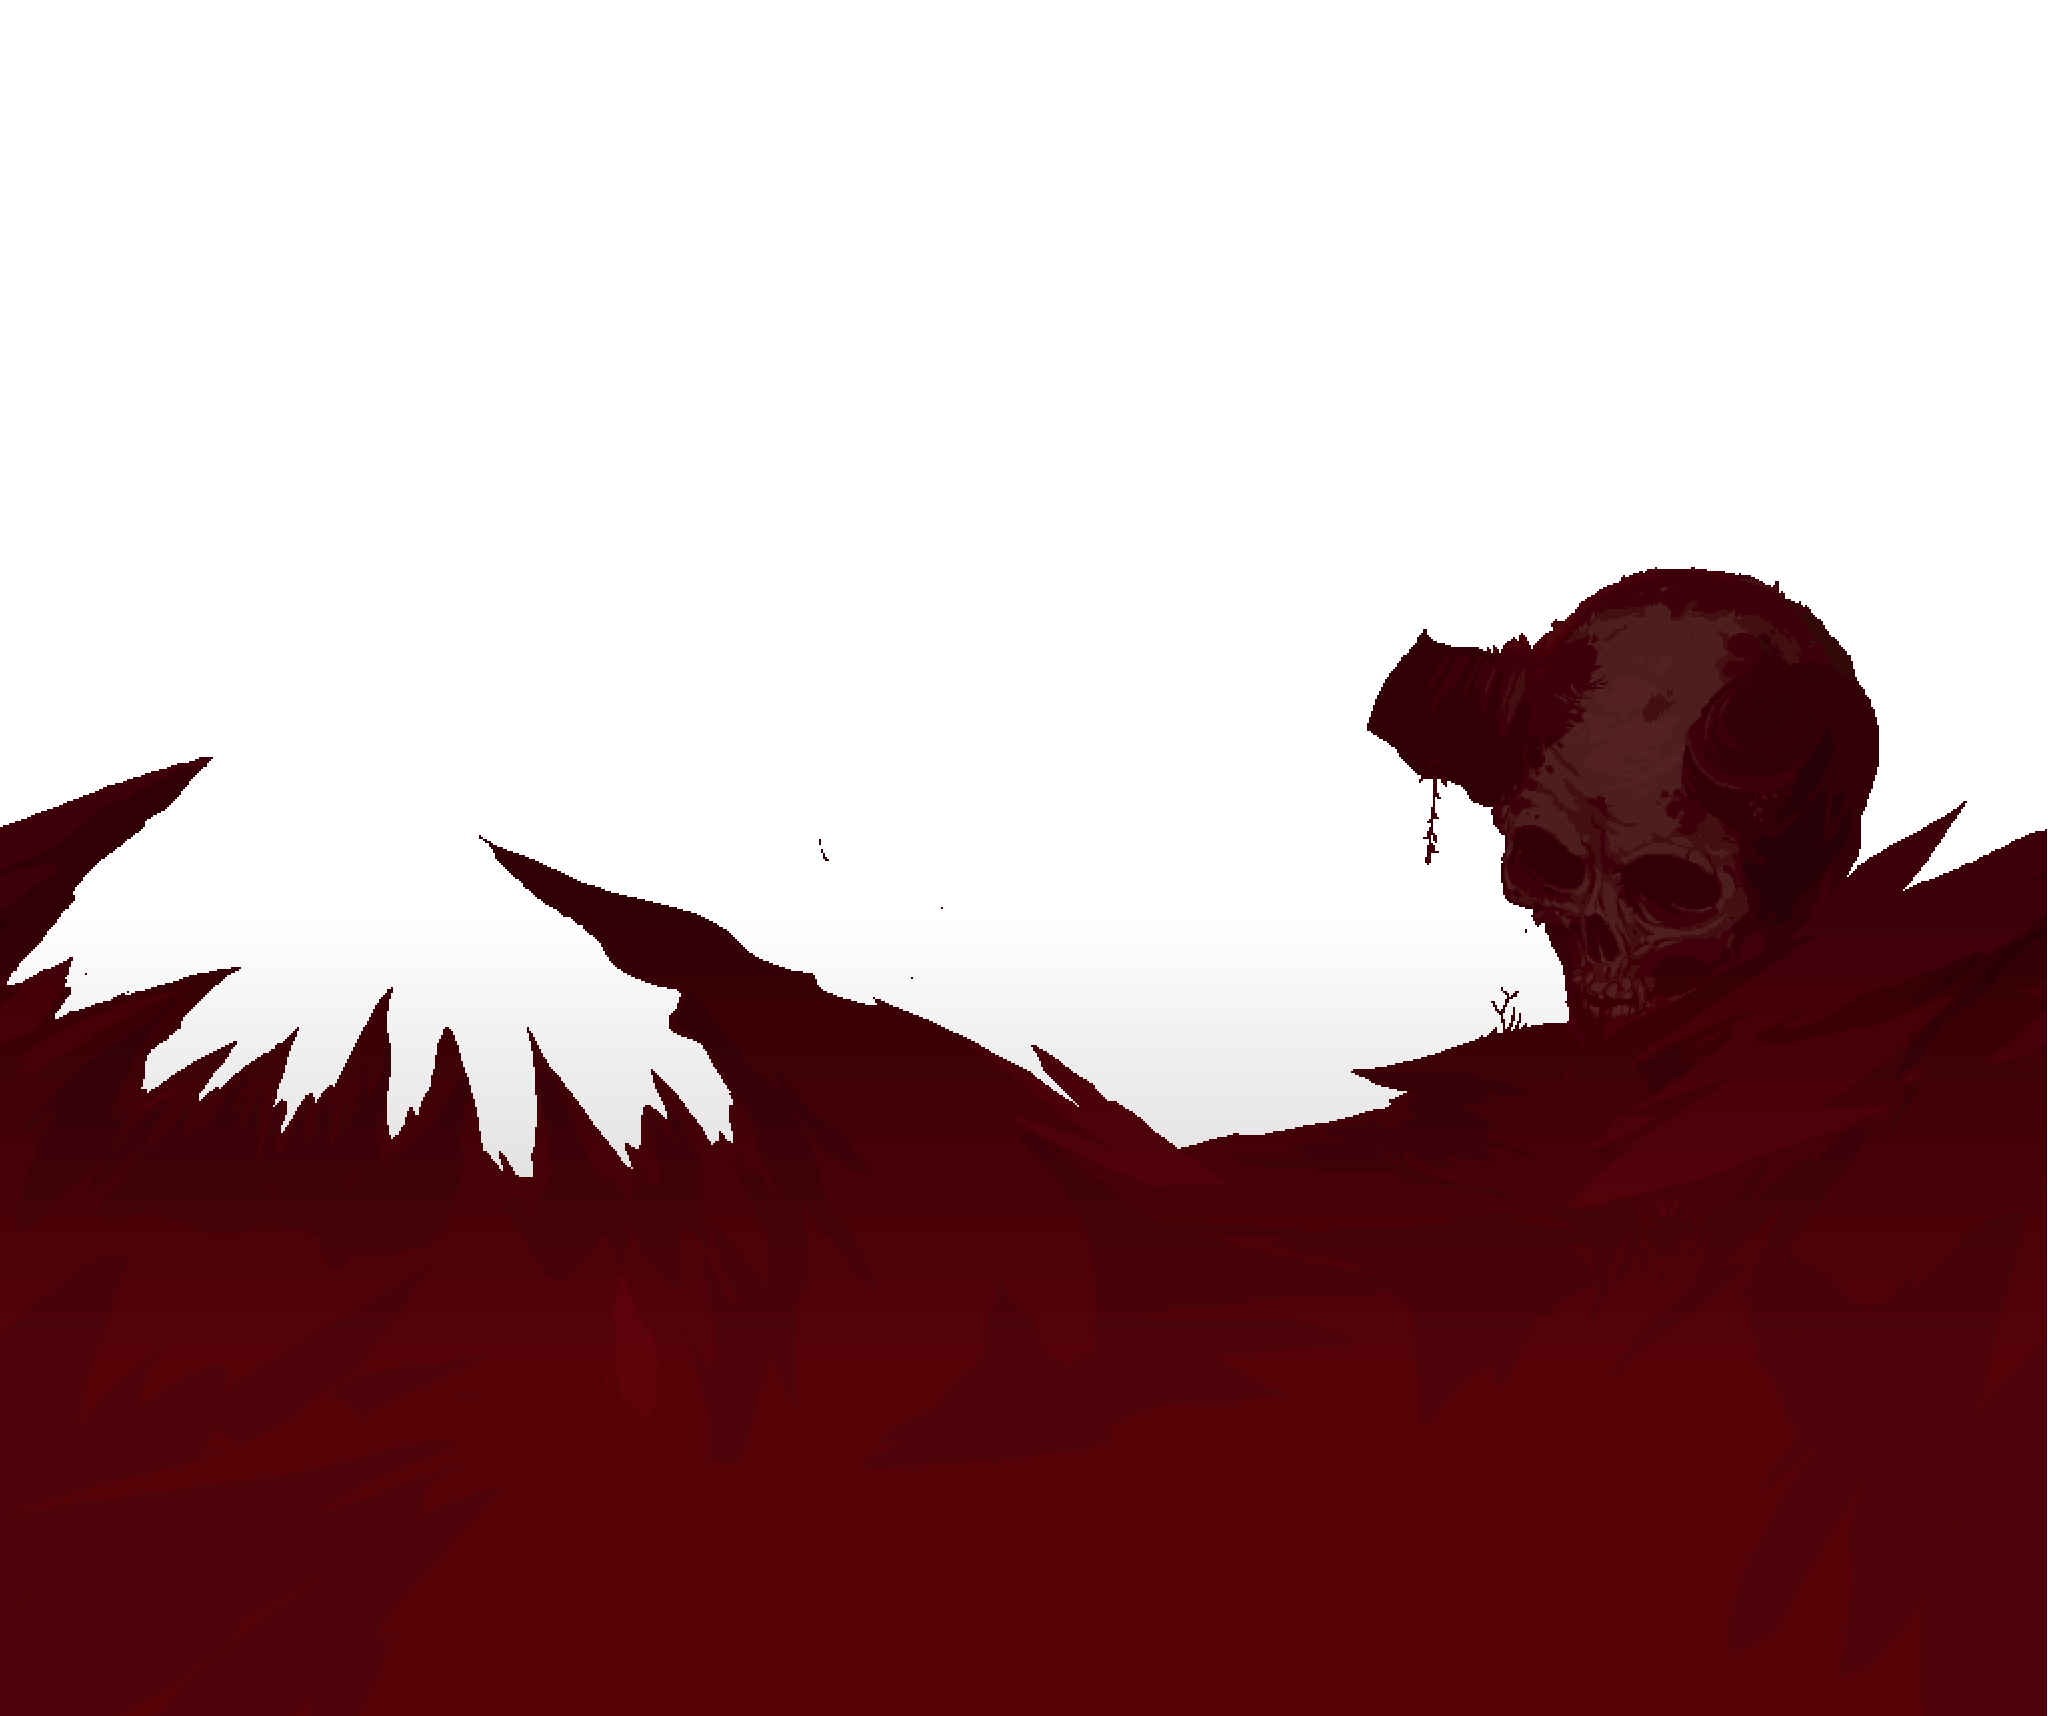
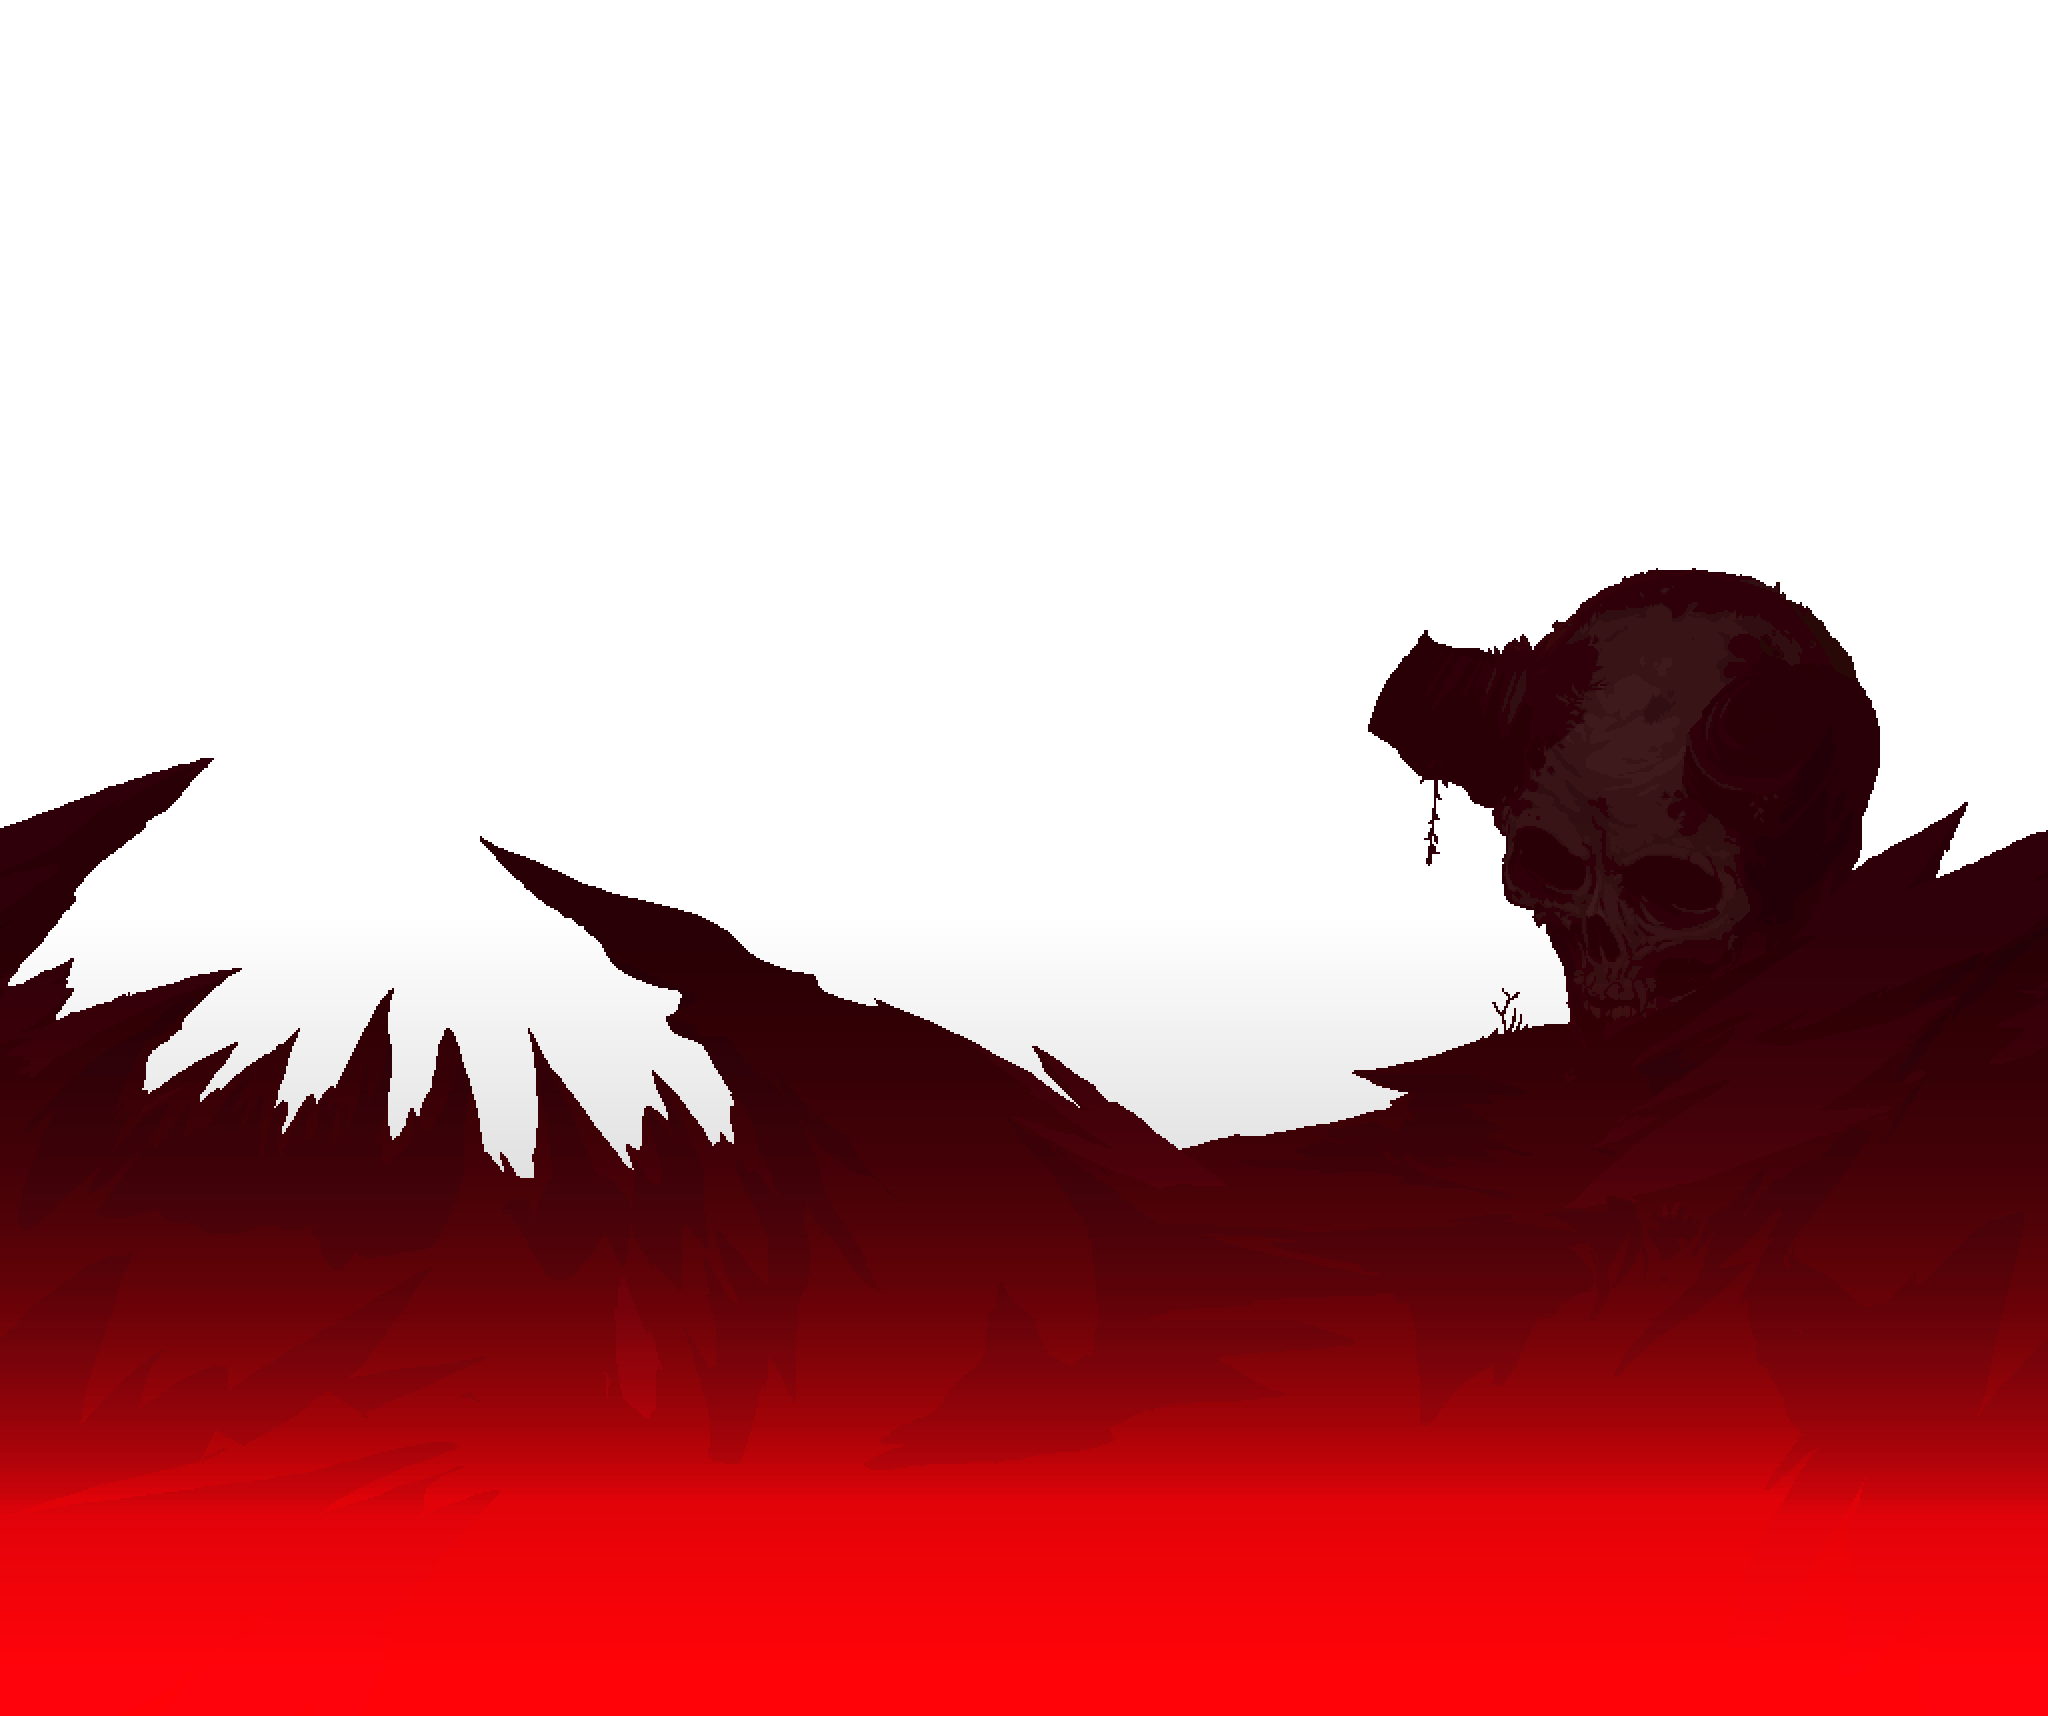
Feat/fix: Crimson background sprite, layout, lighting pass + Cartilage ore inflicts ichor for longer

Changed region(s): [[0.0, 0.7413, 1.0, 1.0], [0.9375, 0.4633, 0.9688, 0.5251]]

diff --git a/src/EvilExpansionMod/Common/World/HellLightRemovalSystem.cs b/src/EvilExpansionMod/Common/World/HellLightRemovalSystem.cs
@@ -17,33 +17,67 @@ internal sealed class HellLightRemovalSystem : ModSystem {
     private void TileLightScanner_ApplyHellLight(On_TileLightScanner.orig_ApplyHellLight orig, TileLightScanner self, Tile tile, int x, int y, ref Vector3 lightColor) {
         orig.Invoke(self, tile, x, y, ref lightColor);
 
-        var underworldCorruptLightColor = new Vector3(0.4f, 0.45f, 0.08f);
-        var underworldCrimsonLightColor = new Vector3(0.45f, 0.25f, 0.0f);
+        var underworldCorruptLightColor = new Vector3(0.6f, 0.65f, 0.08f);
+        var underworldCrimsonLightColor = new Vector3(0.65f, 0.45f, 0.2f); //new Vector3(0.45f, 0.25f, 0.0f) previously
 
         if(Main.LocalPlayer.InModBiome<UnderworldCorruptionBiome>()) {
-            if((!tile.HasTile || !Main.tileNoSunLight[tile.TileType] || ((tile.Slope != 0 || tile.IsHalfBlock) && Main.tile[x, y - 1].LiquidAmount == 0 && Main.tile[x, y + 1].LiquidAmount == 0 && Main.tile[x - 1, y].LiquidAmount == 0 && Main.tile[x + 1, y].LiquidAmount == 0)) && (Main.wallLight[tile.WallType] || tile.WallType == 73 || tile.WallType == 227) && tile.LiquidAmount < 200 && (!tile.IsHalfBlock || Main.tile[x, y - 1].LiquidAmount < 200)) {
-                lightColor = underworldCorruptLightColor;
+            if((!tile.HasTile || !Main.tileNoSunLight[tile.TileType] || // "There is no tile" OR "tile allows sunlight", OR
+                ((tile.Slope != 0 || tile.IsHalfBlock) &&
+                    Main.tile[x, y - 1].LiquidAmount == 0 &&
+                    Main.tile[x, y + 1].LiquidAmount == 0 &&
+                    Main.tile[x - 1, y].LiquidAmount == 0 &&
+                    Main.tile[x + 1, y].LiquidAmount == 0)) && // Tile is not surrounded by liquids, AND
+                (Main.wallLight[tile.WallType] || tile.WallType == 73 || tile.WallType == 227) && // Wall on the tile is transparent, AND
+                tile.LiquidAmount < 200 && // Liquid in the tile is below a threshold, AND
+                (!tile.IsHalfBlock || Main.tile[x, y - 1].LiquidAmount < 200)) { // "Tile is solid" OR "the liquid in tile below is below a threshold"
+                    lightColor = underworldCorruptLightColor * 1f;
             }
-            if((!tile.HasTile || tile.IsHalfBlock || !Main.tileNoSunLight[tile.TileType]) && tile.LiquidAmount < byte.MaxValue) {
-                lightColor = underworldCorruptLightColor/1.5f;
+            if((!tile.HasTile || tile.IsHalfBlock || !Main.tileNoSunLight[tile.TileType]) && tile.LiquidAmount < byte.MaxValue) { // If the tile is a half block OR allows sunlight
+                lightColor = underworldCorruptLightColor * 0.5f;
             }
-
-            if(!tile.HasTile) {
-                lightColor = underworldCorruptLightColor/1.5f;
+            if(!tile.HasTile) { // If the tile... has no tile... I suppose this is "ambient light"?
+                lightColor = underworldCorruptLightColor * 0.5f;
+            }
+            if(!Main.wallLight[tile.WallType] || tile.WallType == 73 || tile.WallType == 227) { // Make it dark as fuck if there is a non-transparent wall
+                lightColor = underworldCrimsonLightColor * 0f;
             }
         }
 
         if(Main.LocalPlayer.InModBiome<UnderworldCrimsonBiome>()) {
-            if((!tile.HasTile || !Main.tileNoSunLight[tile.TileType] || ((tile.Slope != 0 || tile.IsHalfBlock) && Main.tile[x, y - 1].LiquidAmount == 0 && Main.tile[x, y + 1].LiquidAmount == 0 && Main.tile[x - 1, y].LiquidAmount == 0 && Main.tile[x + 1, y].LiquidAmount == 0)) && (Main.wallLight[tile.WallType] || tile.WallType == 73 || tile.WallType == 227) && tile.LiquidAmount < 200 && (!tile.IsHalfBlock || Main.tile[x, y - 1].LiquidAmount < 200)) {
-                lightColor = underworldCrimsonLightColor;
+            if((!tile.HasTile || !Main.tileNoSunLight[tile.TileType] || // "There is no tile" OR "tile allows sunlight", OR
+                ((tile.Slope != 0 || tile.IsHalfBlock) &&
+                    Main.tile[x, y - 1].LiquidAmount == 0 &&
+                    Main.tile[x, y + 1].LiquidAmount == 0 &&
+                    Main.tile[x - 1, y].LiquidAmount == 0 &&
+                    Main.tile[x + 1, y].LiquidAmount == 0)) && // Tile is not surrounded by liquids, AND
+                (Main.wallLight[tile.WallType] || tile.WallType == 73 || tile.WallType == 227) && // Wall on the tile is transparent, AND
+                tile.LiquidAmount < 200 && // Liquid in the tile is below a threshold, AND
+                (!tile.IsHalfBlock || Main.tile[x, y - 1].LiquidAmount < 200)) { // "Tile is solid" OR "the liquid in tile below is below a threshold"
+                lightColor = underworldCrimsonLightColor * 1f;
             }
             if((!tile.HasTile || tile.IsHalfBlock || !Main.tileNoSunLight[tile.TileType]) && tile.LiquidAmount < byte.MaxValue) {
-                lightColor = underworldCrimsonLightColor/2;
+                lightColor = underworldCrimsonLightColor * 0.5f;
+            }
+            if(!tile.HasTile) {
+                lightColor = underworldCrimsonLightColor * 0.5f;
+            }
+            if(!Main.wallLight[tile.WallType] || tile.WallType == 73 || tile.WallType == 227) { // Make it dark as fuck if there is a non-transparent wall
+                lightColor = underworldCrimsonLightColor * 0f;
             }
 
-            if(!tile.HasTile) {
-                lightColor = underworldCrimsonLightColor/2;
-            }
         }
+
+        //if(Main.LocalPlayer.InModBiome<UnderworldCrimsonBiome>()) {
+        //    if((!tile.HasTile || !Main.tileNoSunLight[tile.TileType] || ((tile.Slope != 0 || tile.IsHalfBlock) && Main.tile[x, y - 1].LiquidAmount == 0 && Main.tile[x, y + 1].LiquidAmount == 0 && Main.tile[x - 1, y].LiquidAmount == 0 && Main.tile[x + 1, y].LiquidAmount == 0)) && (Main.wallLight[tile.WallType] || tile.WallType == 73 || tile.WallType == 227) && tile.LiquidAmount < 200 && (!tile.IsHalfBlock || Main.tile[x, y - 1].LiquidAmount < 200)) {
+        //        lightColor = underworldCrimsonLightColor;
+        //    }
+        //    if((!tile.HasTile || tile.IsHalfBlock || !Main.tileNoSunLight[tile.TileType]) && tile.LiquidAmount < byte.MaxValue) {
+        //        lightColor = underworldCrimsonLightColor / 2;
+        //    }
+
+        //    if(!tile.HasTile) {
+        //        lightColor = underworldCrimsonLightColor / 2;
+        //    }
+        //}
     }
 }

diff --git a/src/EvilExpansionMod/Common/World/_Backgrounds/UnderworldCrimsonBGSystem.cs b/src/EvilExpansionMod/Common/World/_Backgrounds/UnderworldCrimsonBGSystem.cs
@@ -99,7 +99,7 @@ public class UnderworldCrimsonBGSystem : ModSystem {
 
             DrawCrimsonUnderworldLayer(flat, screenOffset, pushUp, 0);
 
-            for(int layerTextureIndex = 5; layerTextureIndex >= 0; layerTextureIndex--) {
+            for(int layerTextureIndex = 6; layerTextureIndex >= 0; layerTextureIndex--) {
                 int customTextureIndex;
                 switch(layerTextureIndex) {
                     case 5:
@@ -109,11 +109,13 @@ public class UnderworldCrimsonBGSystem : ModSystem {
                         customTextureIndex = 2;
                         break;
                     case 3:
-                    case 2:
                         customTextureIndex = 3;
                         break;
-                    case 1:
+                    case 2:
                         customTextureIndex = 4;
+                        break;
+                    case 1:
+                        customTextureIndex = 5;
                         break;
                     default:
                         continue;
@@ -158,7 +160,7 @@ public class UnderworldCrimsonBGSystem : ModSystem {
                     num7 = 6f;
                     break;
                 case 4:
-                    num7 = 4f;
+                    num7 = 4.75f;
                     break;
                 case 5:
                     num7 = 2f;
@@ -182,25 +184,33 @@ public class UnderworldCrimsonBGSystem : ModSystem {
 
         switch(textureArrayIndex) {
             case 0:
-                zero.Y -= 0f;
-                num8 = 1.3f;
+                zero.Y += -200f;
+                //zero.Y += -400f;
+                num8 = 1f;
+                //num8 = 1f;
                 break;
             case 1:
-                zero.Y += 10f;
+                zero.Y += -100f;
                 break;
             case 2:
-                zero.Y += 100;
+                zero.Y += 175f;
                 zero.Y -= heightChange * 0.5f;
                 num8 = newScaleFactorForLayer2;
                 break;
             case 3:
-                zero.Y -= 170f;
+                zero.Y += 60f;
+                //zero.Y += -170f;
                 break;
             case 4:
-                zero.Y -= 30f;
+                zero.Y += 120f;
+                //zero.Y += -150f;
                 break;
             case 5:
-                zero.Y += 700f;
+                zero.Y += 350f;
+                //zero.Y += 410f;
+                break;
+            case 6:
+                zero.Y += 600f;
                 break;
         }
 

diff --git a/src/EvilExpansionMod/Content/Crimson/UnderworldCrimsonBiome.cs b/src/EvilExpansionMod/Content/Crimson/UnderworldCrimsonBiome.cs
@@ -21,17 +21,15 @@ public sealed class UnderworldCrimsonBiome : ModBiome, IHasCustomLavaBiome {
         var underworld = player.ZoneUnderworldHeight;
         return EvilTileCountSystem.InUnderworldCrimson && underworld;
     }
-
-
 }
 
 public sealed class UnderglowCrimson : ModSystem {
-        public override void ModifyLightingBrightness(ref float brightness) {
+    public override void ModifyLightingBrightness(ref float brightness) {
         Player player = Main.LocalPlayer;
         if(Main.LocalPlayer.InModBiome<UnderworldCrimsonBiome>()) {
-            brightness += 0.04f;
+            brightness -= 0.04f;
+        }
     }
-}
 }
 
 

diff --git a/src/EvilExpansionMod/Content/Crimson/Tiles/CartilageOreTile.cs b/src/EvilExpansionMod/Content/Crimson/Tiles/CartilageOreTile.cs
@@ -92,7 +92,7 @@ public class CartilageOreTile : ModTile {
         if(!player.fireWalk) {
             player.AddBuff(BuffID.Burning, 10, false);
         }
-        player.AddBuff(BuffID.Ichor, 10, false);
+        player.AddBuff(BuffID.Ichor, 60 * 20, false);
     }
 
     public override void ModifyLight(int i, int j, ref float r, ref float g, ref float b) {
